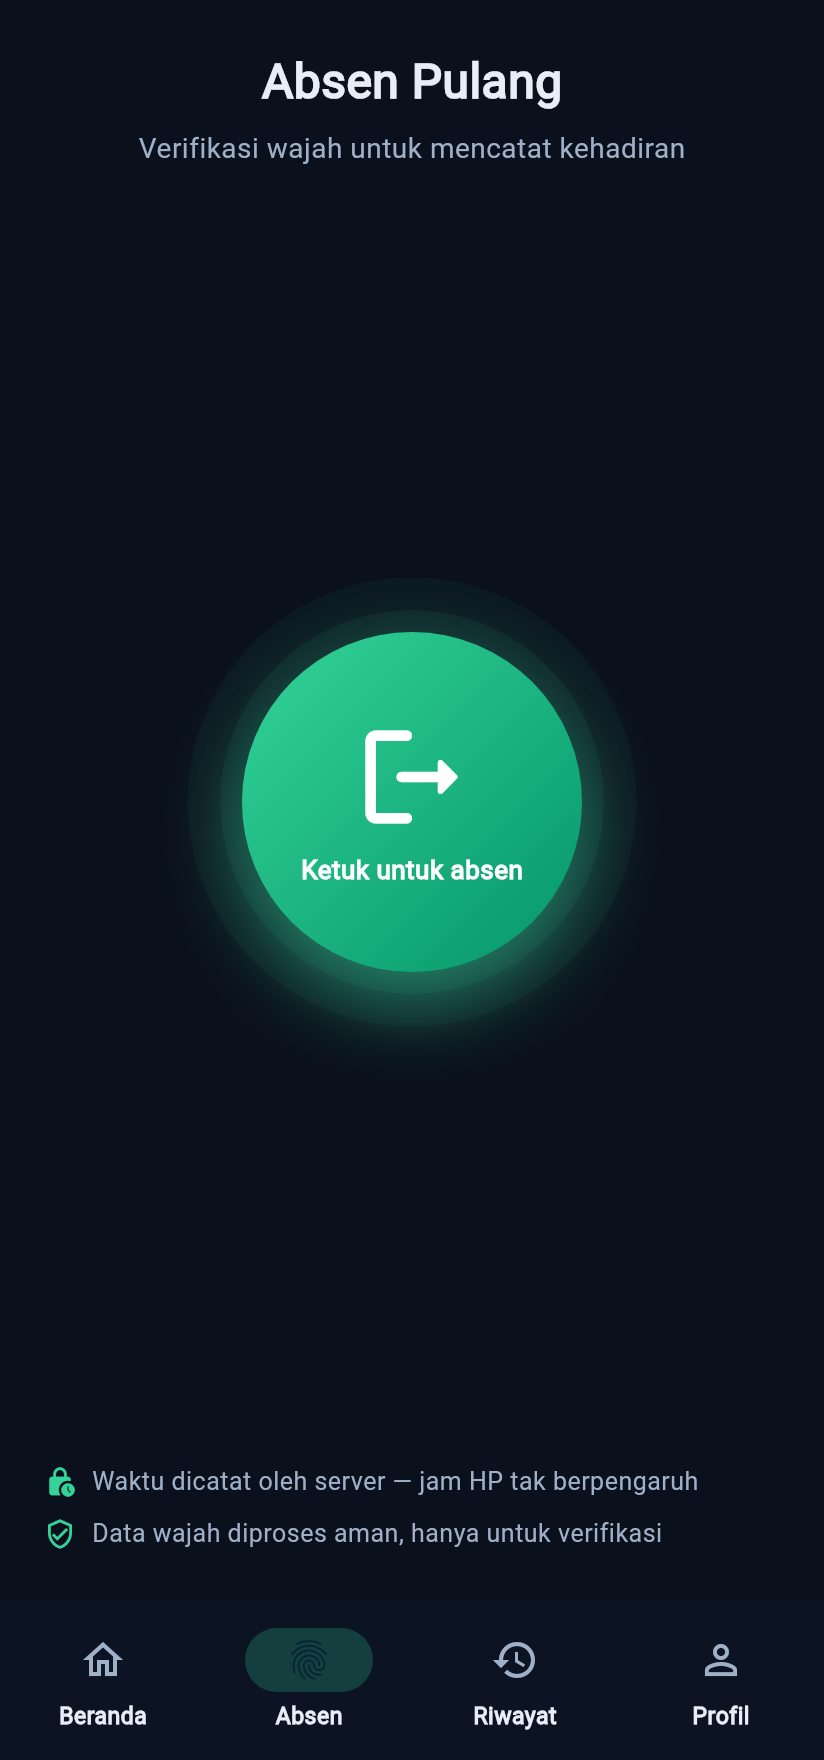
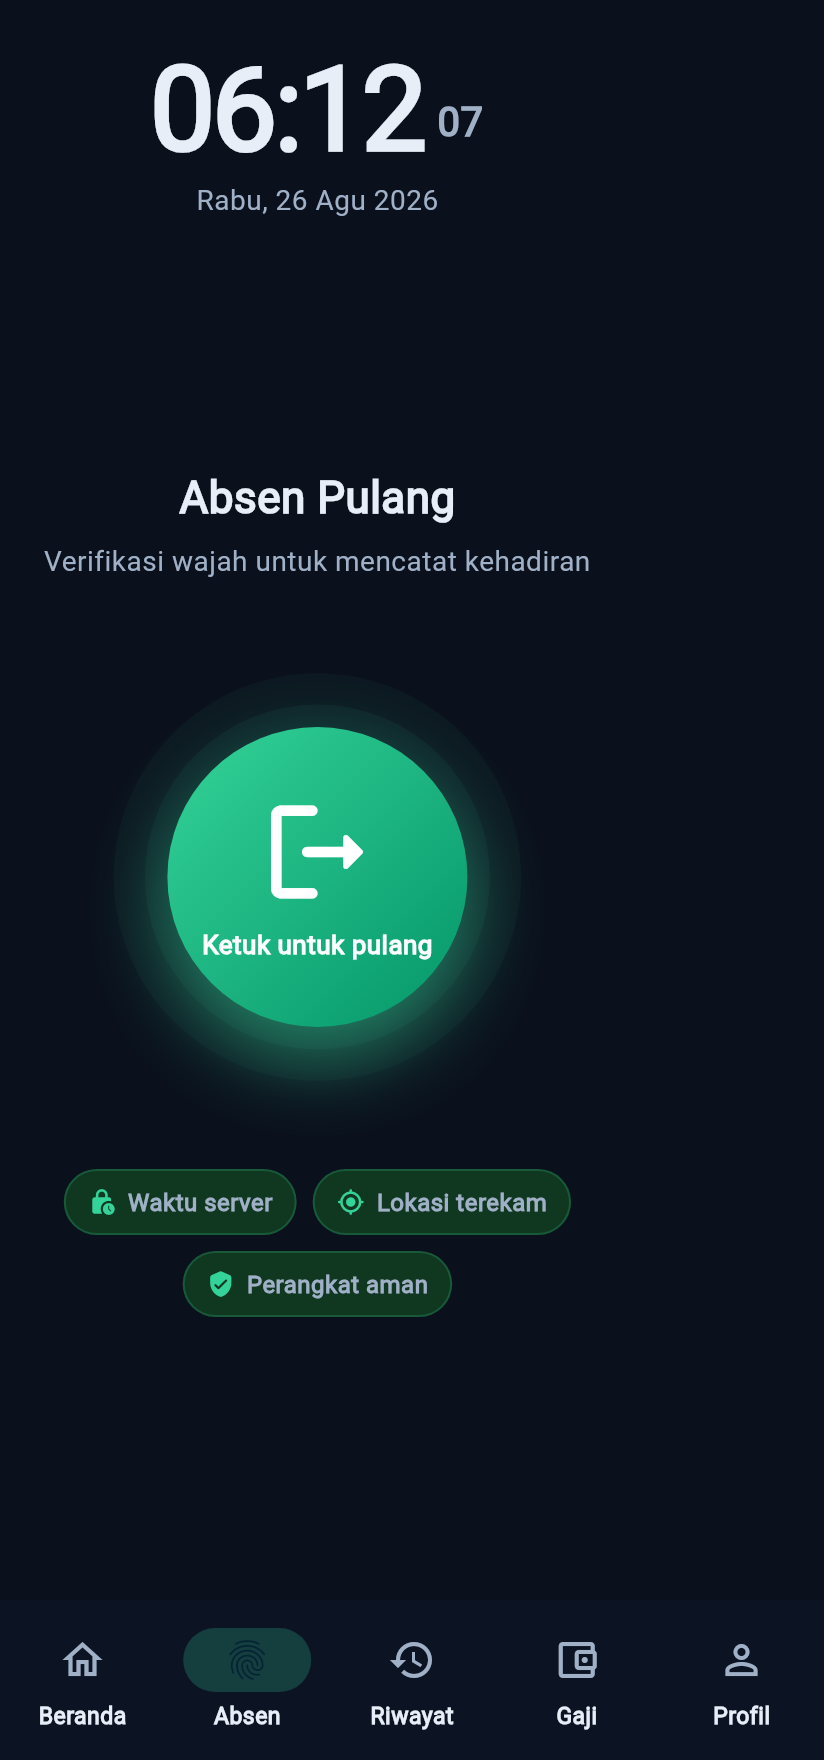
showcase: frame HP premium (bodi device) + screenshot Absen baru

diff --git a/index.html b/index.html
@@ -61,9 +61,9 @@ section{padding:64px 0}
 .card.dark h3{color:#fff}.card.dark p{color:#bbf7d0}.card.dark .ic{background:rgba(255,255,255,.1);color:#86efac}
 /* phones */
 .phones{display:flex;gap:30px;justify-content:center;flex-wrap:wrap;align-items:flex-start}
-.phone{width:250px}
-.phone .frame{border:9px solid #0f172a;border-radius:34px;overflow:hidden;box-shadow:0 30px 60px -24px rgba(2,44,22,.55);background:#0f172a}
-.phone .frame img{width:100%;display:block}
+.phone{width:256px}
+.phone .frame{padding:7px;border-radius:44px;background:linear-gradient(155deg,#27313f,#0b1220);box-shadow:0 44px 74px -30px rgba(2,44,22,.55),0 8px 20px -8px rgba(2,44,22,.30),inset 0 0 0 1px rgba(255,255,255,.06)}
+.phone .frame img{width:100%;display:block;border-radius:37px}
 .phone .cap{text-align:center;margin-top:14px}
 .phone .cap b{font-size:14.5px;font-weight:700;display:block}
 .phone .cap span{font-size:13px;color:var(--tx2)}
